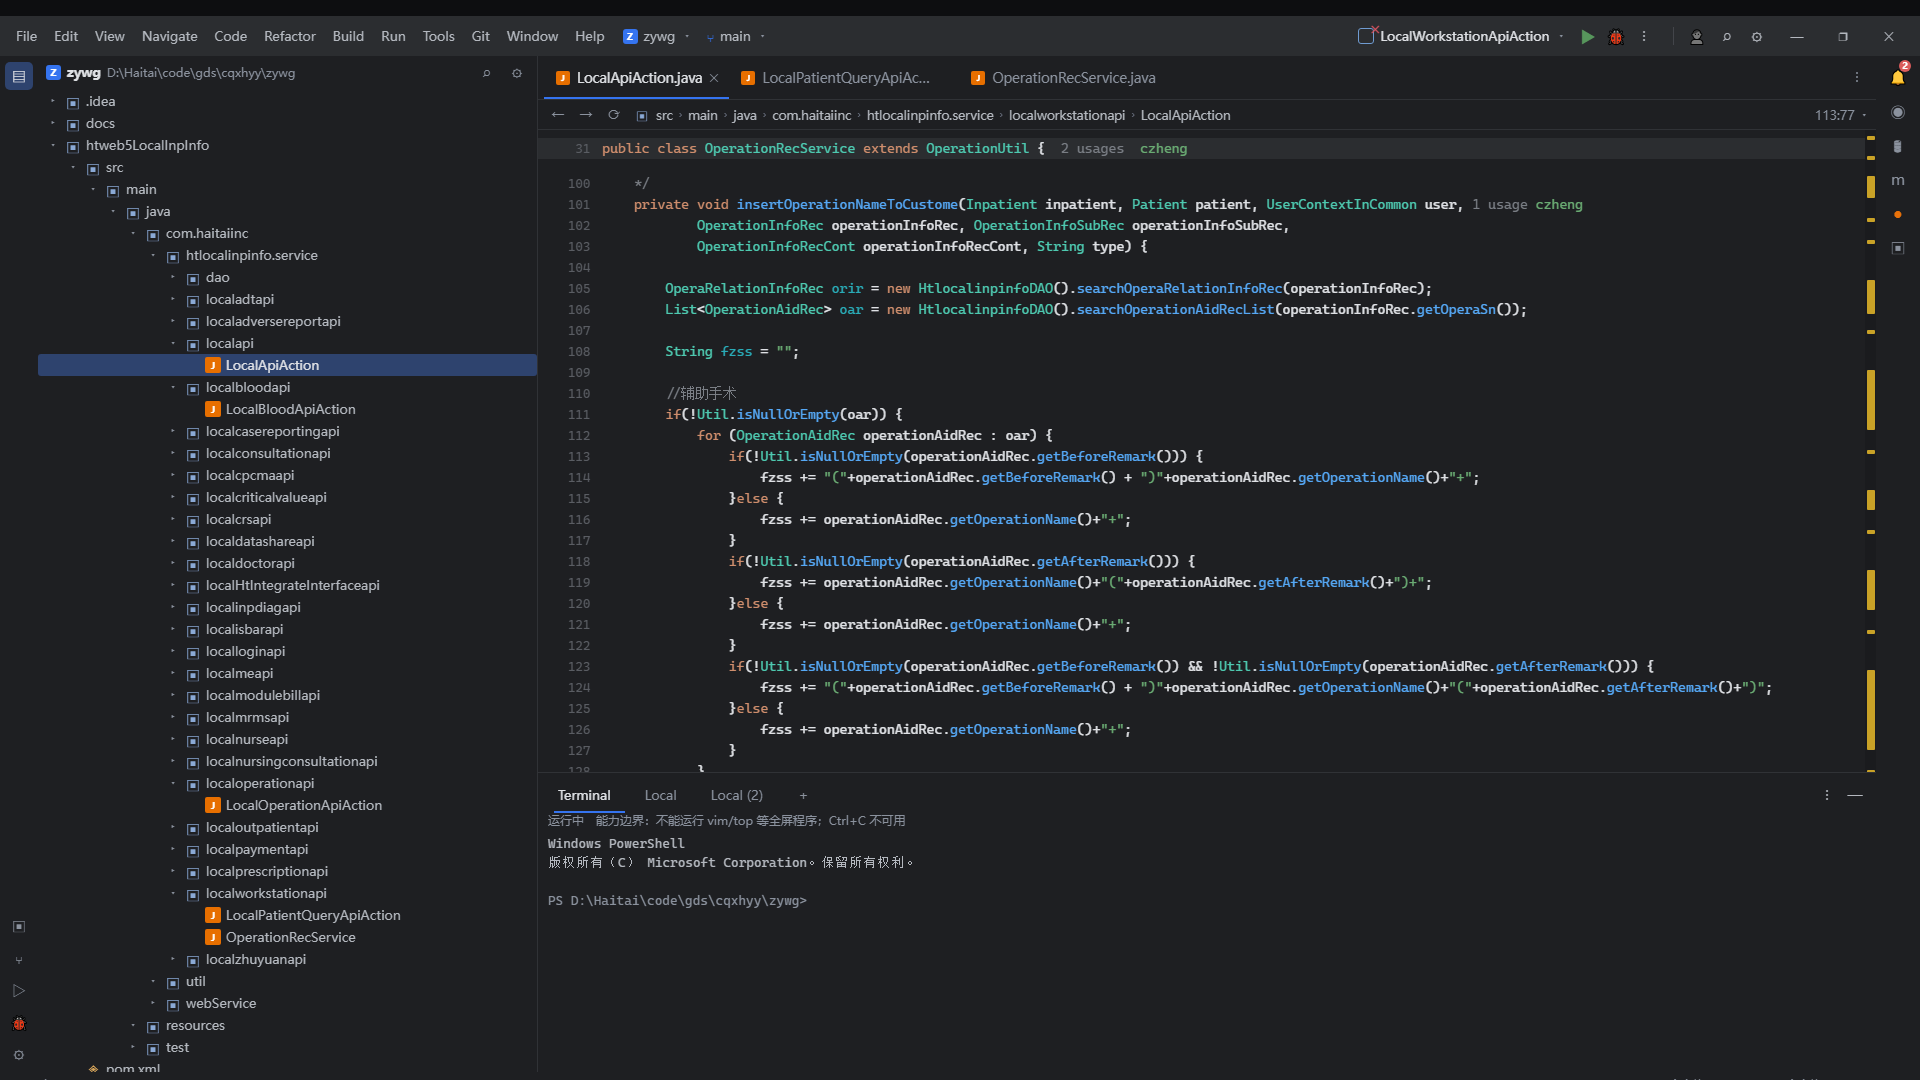
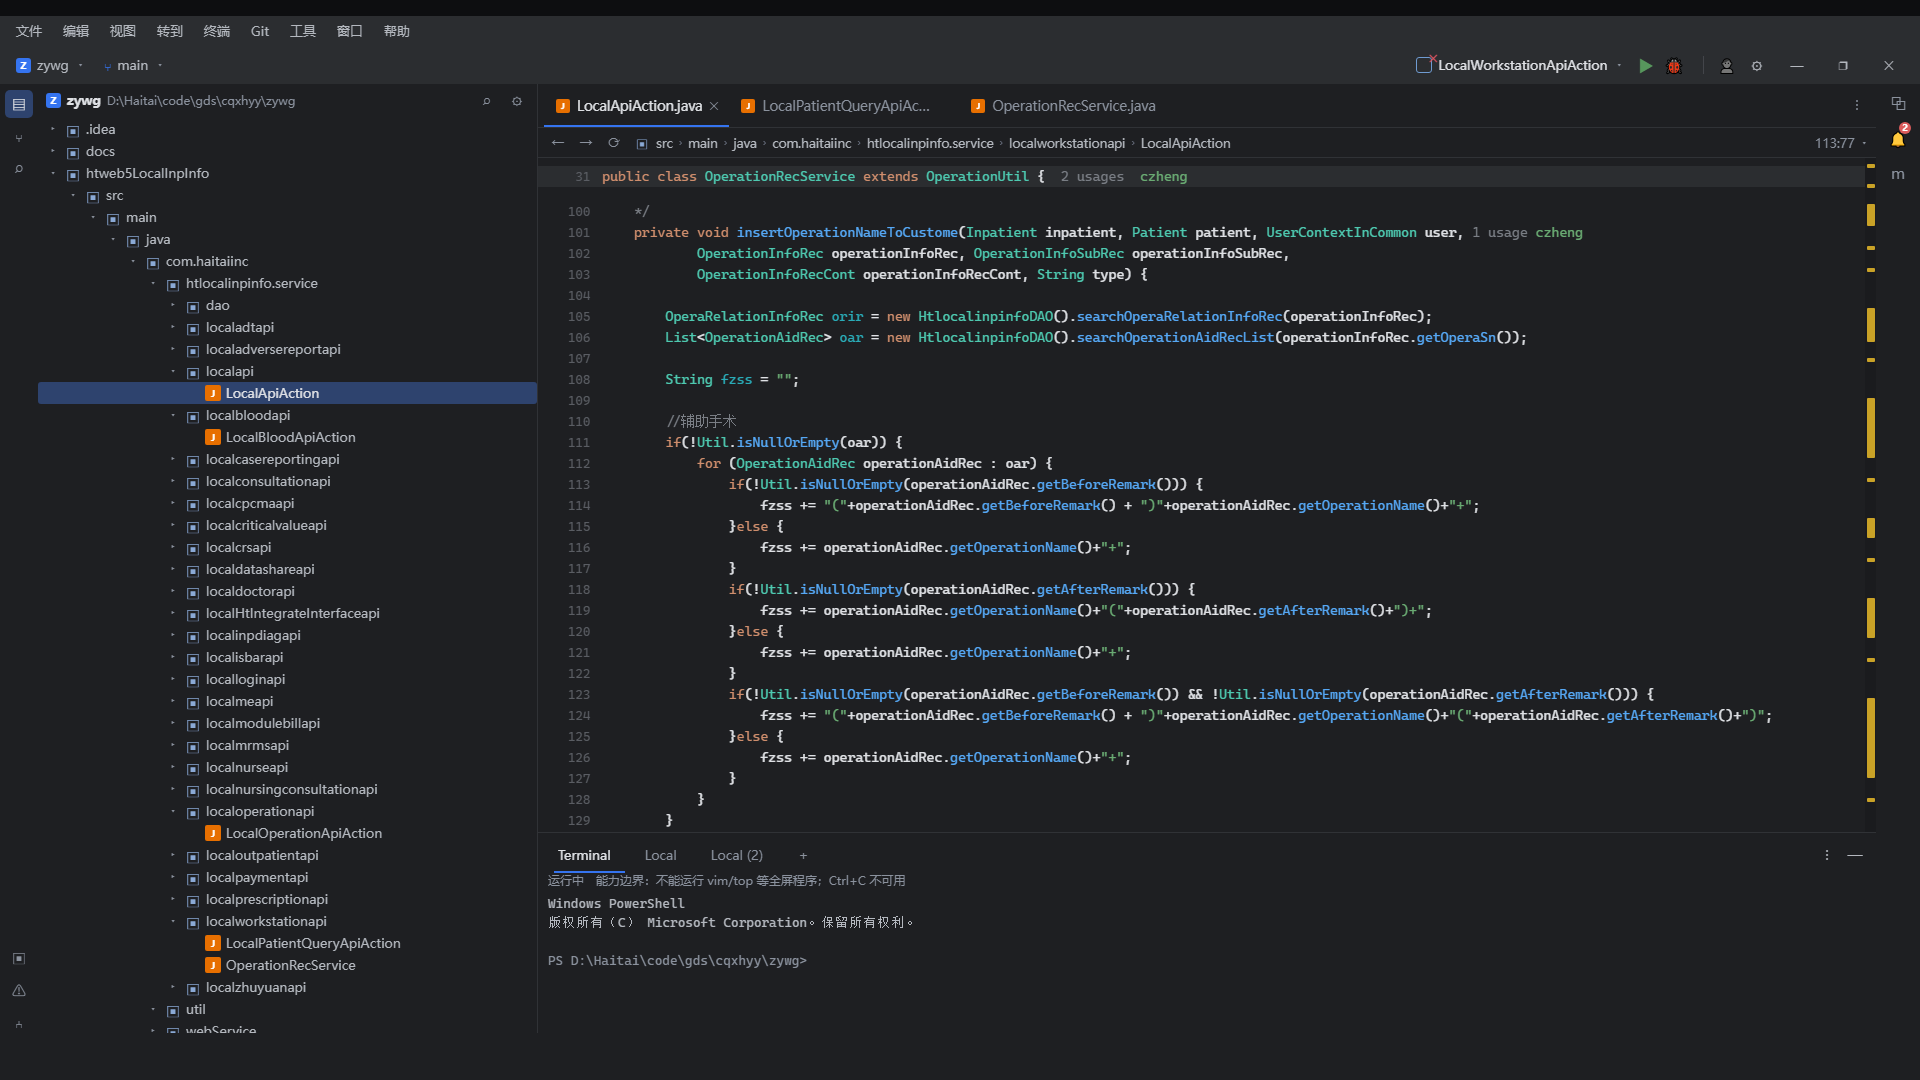
docs(gpui): 效果图按维护者口径调整标题栏与两条活动栏
- 标题栏改成两行：第一行菜单（文件/编辑/视图/转到/终端/Git/工具/窗口/帮助）；
  第二行 项目 zywg ▾ + 分支 main ▾ | 运行配置 LocalWorkstationApiAction ▾ + ▶ + 🐞
  | 账号 + 设置 | 窗口三键；
- 左活动栏按 Lithe 现有集合：顶部 项目/更改/搜索，底部 终端/诊断/提交记录/设置；
- 右活动栏收敛为 扩展 / 通知 / Maven；
- 底部工具窗 320 → 240，给两行标题栏让出高度。

diff --git a/gpui/docs/ui-mockup-idea.html b/gpui/docs/ui-mockup-idea.html
@@ -39,13 +39,15 @@
   .app{width:1920px;height:1080px;background:var(--bg);color:var(--fg);
        display:flex;flex-direction:column;position:relative;overflow:hidden;flex-shrink:0}
 
-  /* ── ① 标题栏 40：菜单｜项目 ▾ 分支 ▾｜运行配置 ▾ ▶ 🐞 ⋮｜账号 搜索 设置｜三键 ── */
-  .titlebar{height:40px;flex:0 0 40px;display:flex;align-items:center;padding:0 8px;gap:4px;
-            background:var(--surface);font-size:13px;color:var(--muted-fg)}
+  /* ── ① 标题栏：两行（第一行菜单，第二行 项目/分支 + 运行控件 + 账号/设置 + 三键） ── */
+  .titlebar{flex:0 0 auto;display:flex;flex-direction:column;background:var(--surface);
+            font-size:13px;color:var(--muted-fg)}
+  .tb-menu{height:30px;flex:0 0 30px;display:flex;align-items:center;padding:0 6px;gap:1px}
   .menubar{display:flex;gap:1px}
-  .menubar span{padding:2px 8px;border-radius:4px}
+  .menubar span{padding:3px 10px;border-radius:4px}
   .menubar span:hover{background:var(--accent)}
-  .chip{display:flex;align-items:center;gap:6px;padding:2px 6px;border-radius:6px}
+  .tb-tools{height:38px;flex:0 0 38px;display:flex;align-items:center;padding:0 8px;gap:4px}
+  .chip{display:flex;align-items:center;gap:6px;padding:2px 8px;border-radius:6px}
   .chip:hover{background:var(--accent)}
   .projicon{width:15px;height:15px;border-radius:3px;background:#3574f0;color:#fff;
             font-size:9px;font-weight:700;display:grid;place-items:center}
@@ -154,7 +156,7 @@
   .warn{position:absolute;left:3px;width:3px;top:0;bottom:0;background:#d6ae58}
 
   /* 底部工具窗（本轮不动，按真机现状画） */
-  .bottom{height:300px;flex:0 0 300px;display:flex;flex-direction:column;border-top:1px solid #303236}
+  .bottom{height:240px;flex:0 0 240px;display:flex;flex-direction:column;border-top:1px solid #303236}
   .grip{height:4px;flex:0 0 4px}
   .grip:hover{background:linear-gradient(var(--primary),var(--primary)) center/100% 1px no-repeat}
   .termtabs{height:36px;flex:0 0 36px;display:flex;align-items:center;padding:0 8px;gap:0}
@@ -192,43 +194,46 @@
 <div class="wrap" id="wrap">
 <div class="app">
 
-  <!-- ══ 标题栏 40 ══ -->
+  <!-- ══ 标题栏：两行 ══ -->
   <div class="titlebar">
-    <div class="menubar">
-      <span>File</span><span>Edit</span><span>View</span><span>Navigate</span><span>Code</span>
-      <span>Refactor</span><span>Build</span><span>Run</span><span>Tools</span><span>Git</span>
-      <span>Window</span><span>Help</span>
+    <!-- 第一行：菜单 -->
+    <div class="tb-menu">
+      <div class="menubar">
+        <span>文件</span><span>编辑</span><span>视图</span><span>转到</span><span>终端</span>
+        <span>Git</span><span>工具</span><span>窗口</span><span>帮助</span>
+      </div>
     </div>
-    <div class="chip"><span class="projicon">Z</span>zywg<span class="car">▾</span></div>
-    <div class="chip"><span class="br">⑂</span>main<span class="car">▾</span></div>
-    <div class="drag"></div>
-    <!-- 运行配置：IDEA 把它放在标题栏右侧 -->
-    <div class="runbox">
-      <div class="cfg"><span class="rcicon"></span>LocalWorkstationApiAction<span class="car">▾</span></div>
-      <div class="icbtn play">▶</div>
-      <div class="icbtn dbg">🐞</div>
-      <div class="icbtn">⋮</div>
-    </div>
-    <div class="vsep"></div>
-    <div class="icbtn">👤</div>
-    <div class="icbtn">⌕</div>
-    <div class="icbtn">⚙</div>
-    <div class="wincontrols">
-      <div>—</div><div>❐</div><div class="close">✕</div>
+    <!-- 第二行：项目/分支 + 运行配置 + 账号/设置 + 窗口三键 -->
+    <div class="tb-tools">
+      <div class="chip"><span class="projicon">Z</span>zywg<span class="car">▾</span></div>
+      <div class="chip"><span class="br">⑂</span>main<span class="car">▾</span></div>
+      <div class="drag"></div>
+      <div class="runbox">
+        <div class="cfg"><span class="rcicon"></span>LocalWorkstationApiAction<span class="car">▾</span></div>
+        <div class="icbtn play">▶</div>
+        <div class="icbtn dbg">🐞</div>
+      </div>
+      <div class="vsep"></div>
+      <div class="icbtn">👤</div>
+      <div class="icbtn">⚙</div>
+      <div class="wincontrols">
+        <div>—</div><div>❐</div><div class="close">✕</div>
+      </div>
     </div>
   </div>
 
   <!-- ══ 工作区 ══ -->
   <div class="work">
 
-    <!-- 左活动栏 -->
+    <!-- 左活动栏：顶部组 项目/更改/搜索；底部组 终端/诊断/提交记录/设置 -->
     <div class="rail">
       <div class="item on" title="项目">▤</div>
+      <div class="item" title="更改">⑂</div>
+      <div class="item" title="搜索">⌕</div>
       <div class="sp"></div>
       <div class="item" title="终端">▣</div>
-      <div class="item" title="版本控制">⑂</div>
-      <div class="item" title="运行">▷</div>
-      <div class="item" title="调试">🐞</div>
+      <div class="item" title="诊断">⚠</div>
+      <div class="item" title="提交记录">⑃</div>
       <div class="item" title="设置">⚙</div>
     </div>
 
@@ -402,14 +407,11 @@
       </div>
     </div>
 
-    <!-- 右活动栏（IDEA：铃铛 / AI / 数据库 / Maven / 运行中 / 服务） -->
+    <!-- 右活动栏：扩展 / 通知 / Maven -->
     <div class="rail right">
+      <div class="item" title="扩展">⧉</div>
       <div class="item" title="通知">🔔<span class="badge">2</span></div>
-      <div class="item" title="AI Assistant">◉</div>
-      <div class="item" title="数据库">🛢</div>
       <div class="item" title="Maven" style="color:#8b929e">m</div>
-      <div class="item" title="运行中" style="color:#e8710a">●</div>
-      <div class="item" title="服务">▣</div>
     </div>
   </div>
 
